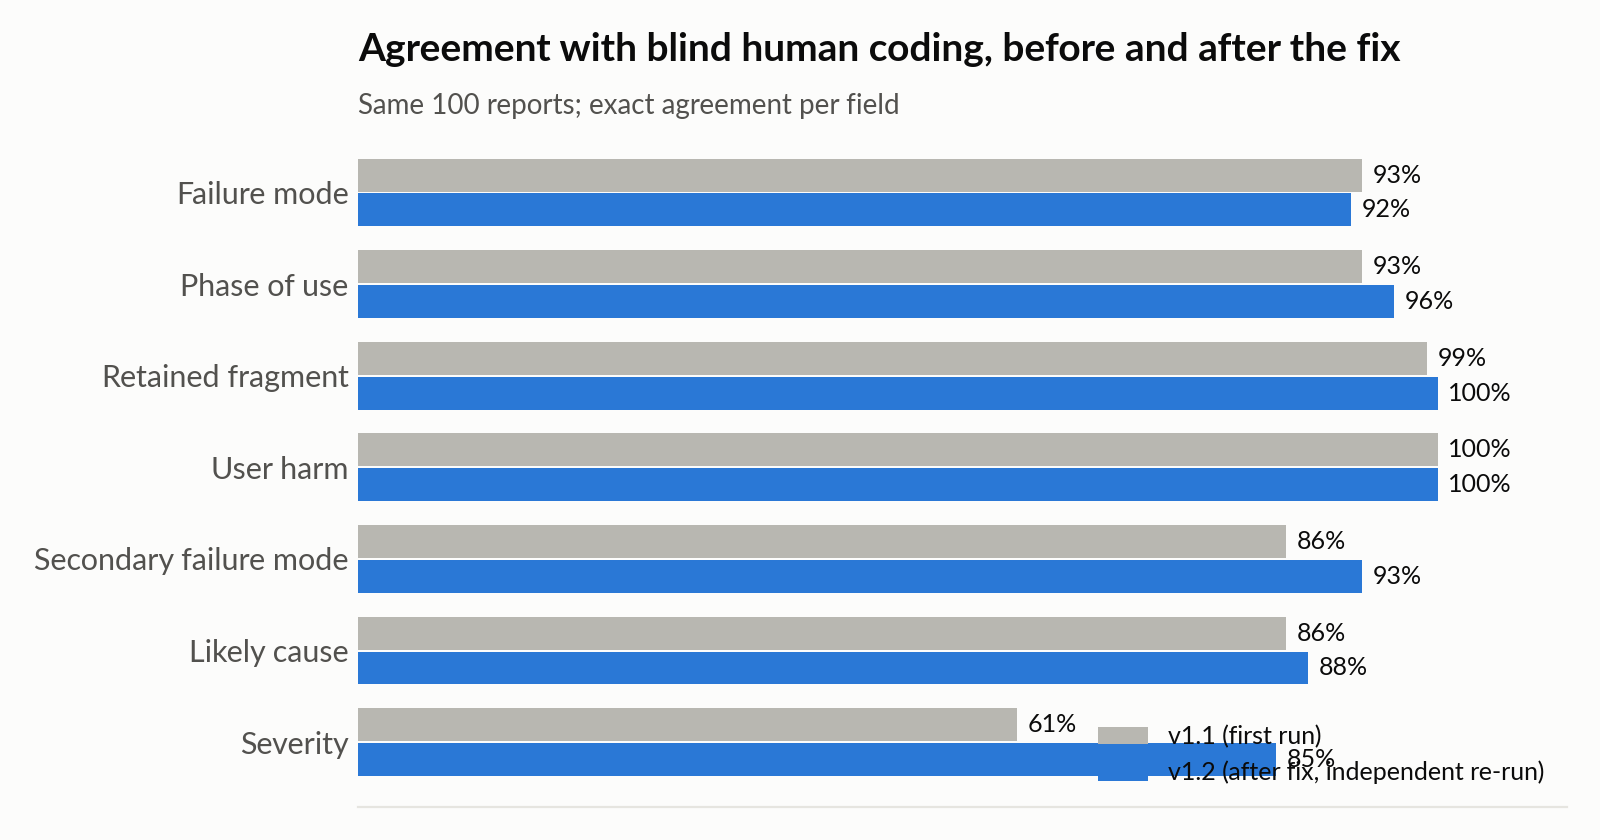
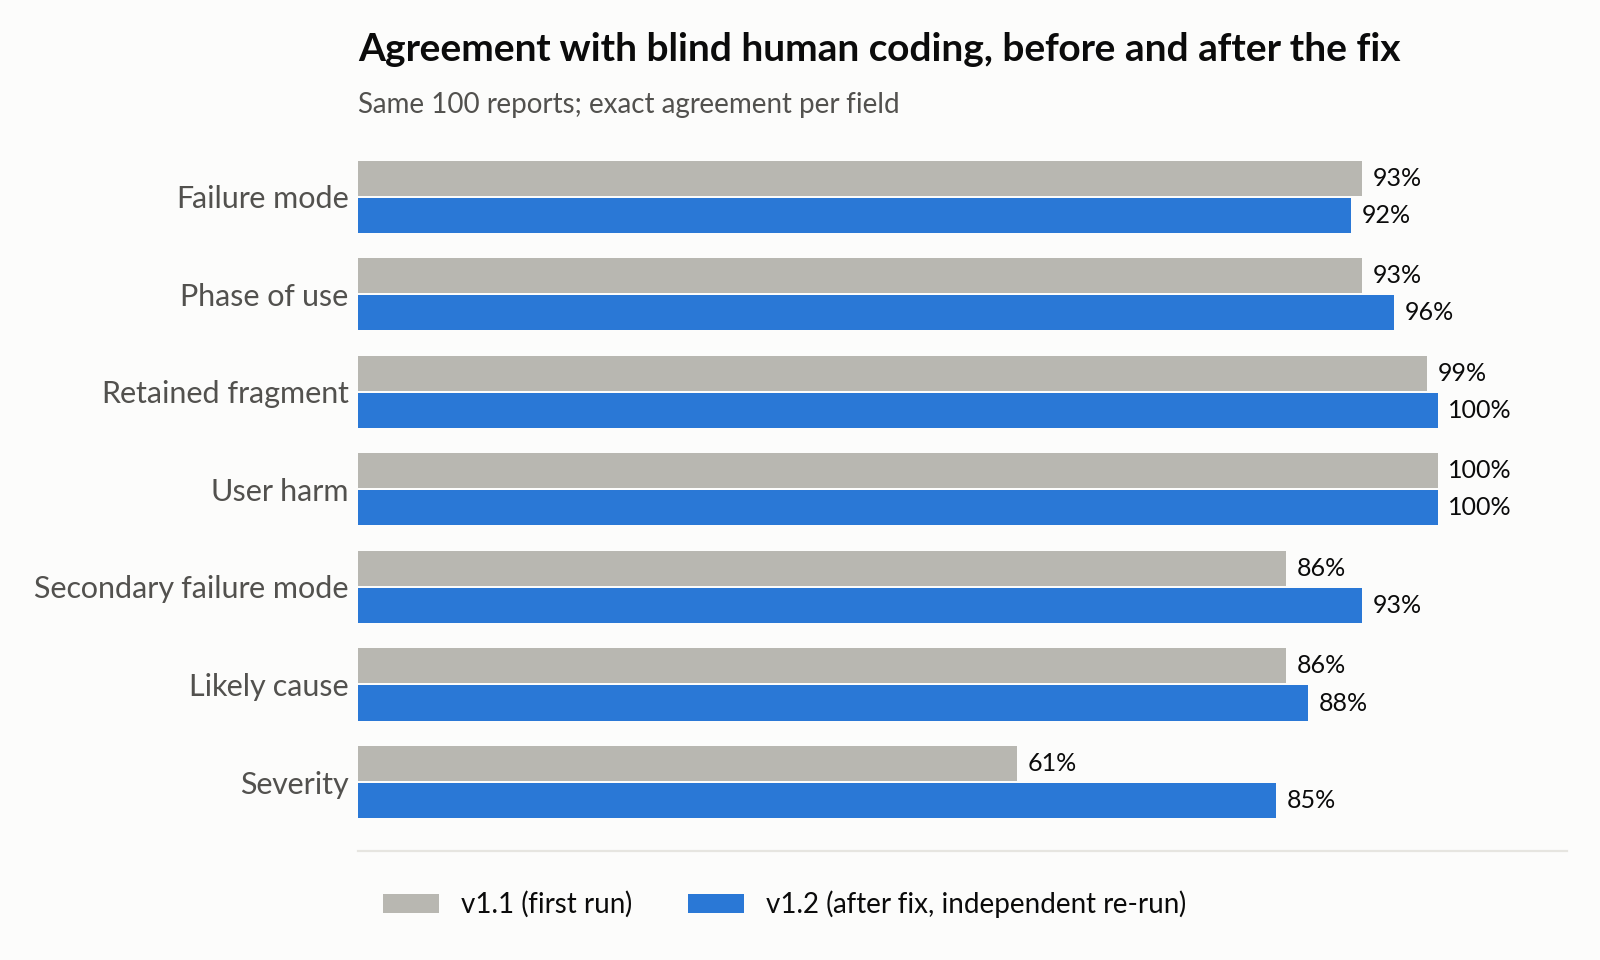
Fix figure 6 legend placement

diff --git a/scripts/make_figures.py b/scripts/make_figures.py
@@ -103,7 +103,7 @@ print("done", sorted(p.name for p in OUT.iterdir()))
 rr = ROOT / "data" / "rerun" / "validation_comparison_v1_2.csv"
 if rr.exists():
     comp2 = list(csv.DictReader(open(rr, encoding="utf-8")))
-    fig, ax = plt.subplots(figsize=(8, 4.2))
+    fig, ax = plt.subplots(figsize=(8, 4.8))
     h = 0.36
     for j, (data, lab, col) in enumerate([(comp, "v1.1 (first run)", "#b8b7b1"), (comp2, "v1.2 (after fix, independent re-run)", BLUE)]):
         for i, (f, _) in enumerate(fields):
@@ -112,7 +112,7 @@ if rr.exists():
             ax.barh(y, a, h, color=col, label=lab if i == 0 else None)
             ax.text(a + 1, y, f"{a:.0f}%", va="center", fontsize=9)
     ax.set_yticks(range(len(fields)), [x[1] for x in fields]); ax.invert_yaxis(); ax.set_xlim(0, 112); ax.set_xticks([])
-    ax.legend(frameon=False, loc="lower right", fontsize=9)
+    ax.legend(frameon=False, loc="upper left", bbox_to_anchor=(0, -0.02), ncol=2, fontsize=10)
     style(ax, "Agreement with blind human coding, before and after the fix", "Same 100 reports; exact agreement per field")
     fig.tight_layout(); fig.savefig(OUT / "fig6_validation_before_after.png"); plt.close(fig)
     print("fig6 done")
